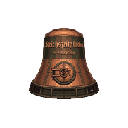
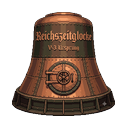
hotfix: restore tip-up Glocke hull, drop side_alt, widen Y fly band
Load player_glocke_128 (Looki pack) instead of side_alt; delete side_alt assets;
refresh death FX; coerceIn(0.12f, 0.92f) for 360° touch-fly. Thrust/intro/enemy AI unchanged.

diff --git a/app/src/main/java/com/stoni/androidstone/ui/screens/PlayScreen.kt b/app/src/main/java/com/stoni/androidstone/ui/screens/PlayScreen.kt
@@ -141,8 +141,8 @@ fun PlayScreen(onExit: () -> Unit) {
         onDispose { sfx.release() }
     }
 
-    // Seitenprofil Bell — tip up / mouth down in asset; rotate with shipAngle
-    val shipHull = remember { loadStargameAsset(context, "player_glocke_side_alt_128.png") }
+    // Good tip-up/mouth-down Seitenprofil (v1.9); NOT side_alt; rotate with shipAngle
+    val shipHull = remember { loadStargameAsset(context, "player_glocke_128.png") }
     // Separate Looki thrust loop (prefer _64); NOT baked player_glocke_thrust_on_*
     val thrustFrames = remember {
         listOf(
@@ -244,9 +244,9 @@ fun PlayScreen(onExit: () -> Unit) {
             starY2 = wrap(starY2 + 1.2f, sh)
             starY3 = wrap(starY3 + 2.0f, sh)
             if (iFrames > 0) iFrames--
-            // Endless X wrap; soft Y band so touch-fly never freezes far forward
+            // Endless X wrap; wide soft Y band for 360° strafing (edges still clamped)
             shipX = ((shipX % 1f) + 1f) % 1f
-            shipY = shipY.coerceIn(0.50f, 0.92f)
+            shipY = shipY.coerceIn(0.12f, 0.92f)
             if (muzzleFlash > 0) muzzleFlash--
 
             // Velocity → facing (keep last angle when nearly still)
@@ -573,7 +573,7 @@ fun PlayScreen(onExit: () -> Unit) {
                             var tx = pos.x / tw
                             // endless X: normalize into 0..1 (wrap), no hard wall
                             tx = ((tx % 1f) + 1f) % 1f
-                            val ty = (pos.y / th).coerceIn(0.50f, 0.92f)
+                            val ty = (pos.y / th).coerceIn(0.12f, 0.92f)
                             // short-path lerp on wrapped X
                             var dx = tx - shipX
                             if (dx > 0.5f) dx -= 1f
